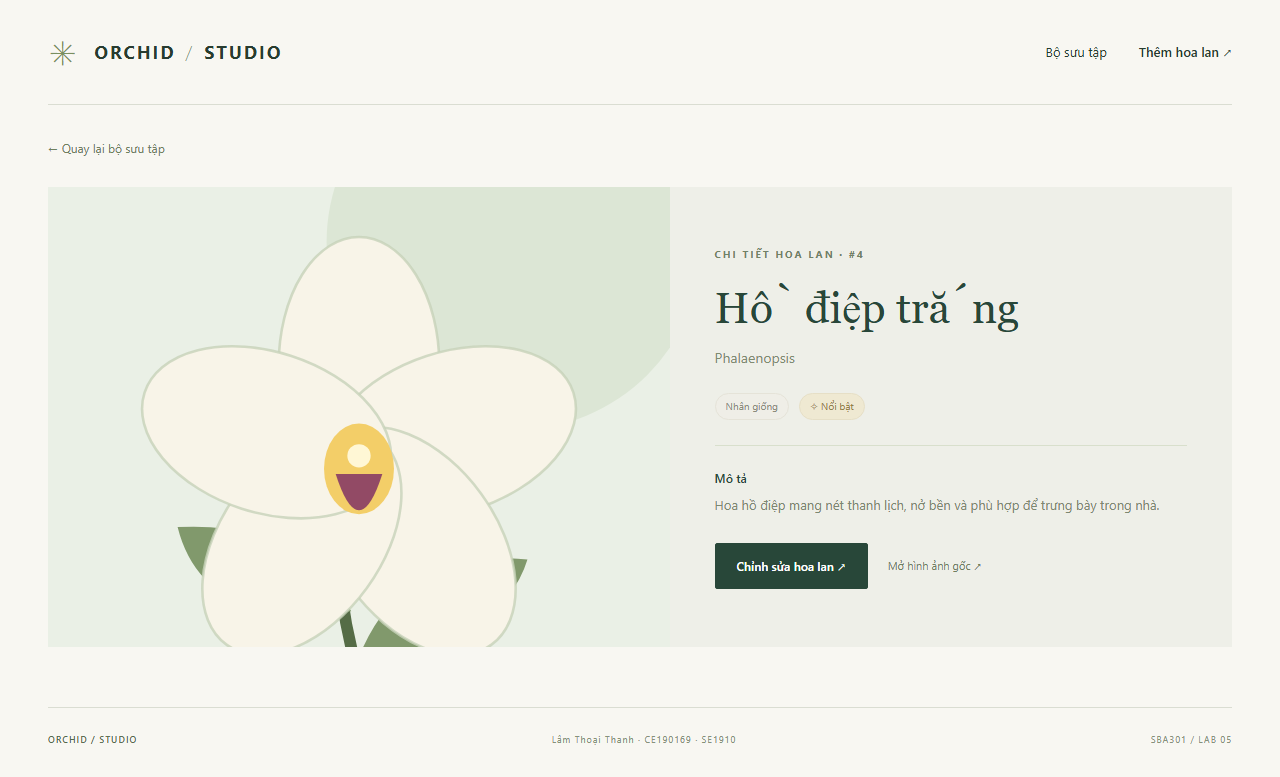
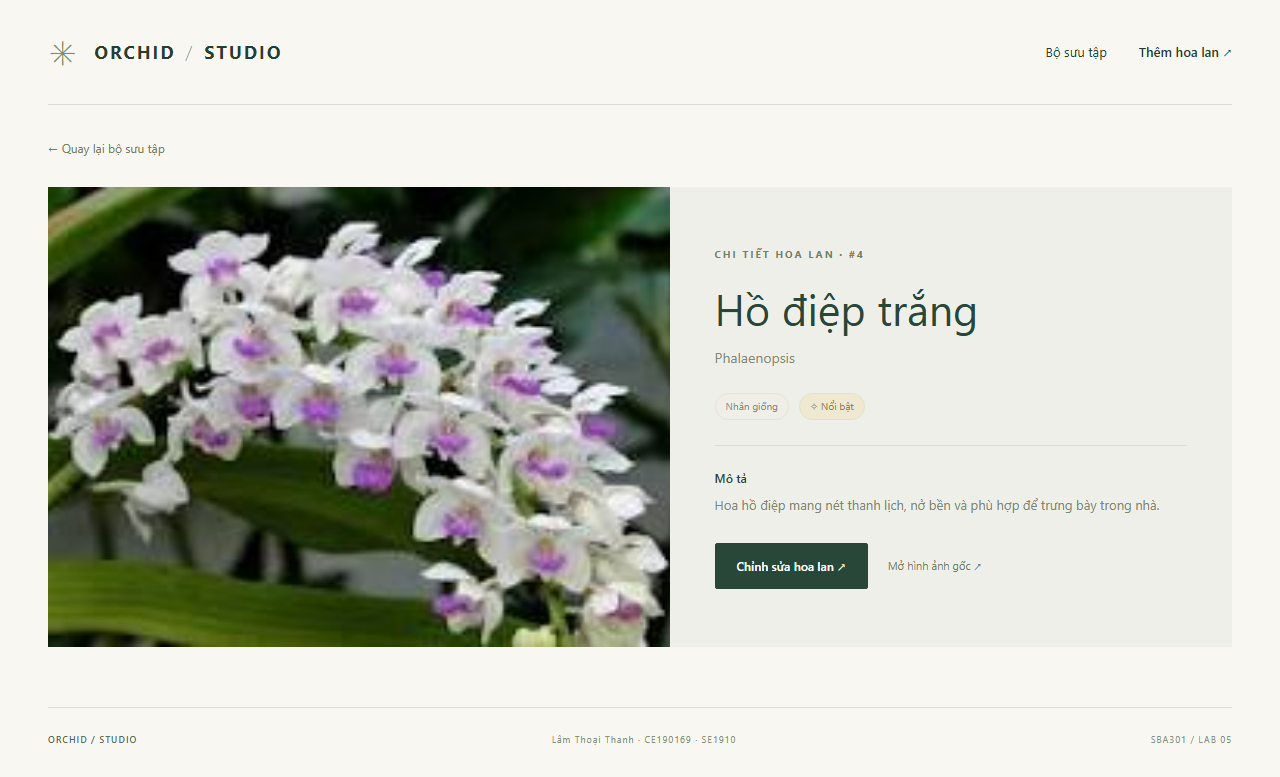
fix(lab05): correct Vietnamese fonts and orchid photos

Changed region(s): [[0.0312, 0.2162, 0.5312, 0.834], [0.5625, 0.3707, 0.8125, 0.4324]]

diff --git a/lab05/frontend/src/App.css b/lab05/frontend/src/App.css
@@ -65,10 +65,10 @@ h3 {
   color: #284739;
 }
 .collection-hero h1 {
-  font-family: Georgia, "Times New Roman", serif;
+  font-family: "Segoe UI", Arial, sans-serif;
   font-size: clamp(40px, 4.9vw, 65px);
   font-weight: 400;
-  letter-spacing: -2px;
+  letter-spacing: -1px;
   line-height: 1.18;
   margin-bottom: 22px;
 }
@@ -135,7 +135,7 @@ h3 {
 }
 .art-flower {
   color: #889f70;
-  font-family: Georgia, serif;
+  font-family: "Segoe UI", Arial, sans-serif;
   font-size: 220px;
   line-height: 1;
   z-index: 1;
@@ -174,7 +174,7 @@ h3 {
   margin-bottom: 8px;
 }
 .section-heading h2 {
-  font-family: Georgia, serif;
+  font-family: "Segoe UI", Arial, sans-serif;
   font-size: 27px;
   font-weight: 400;
   margin: 0;
@@ -275,7 +275,7 @@ h3 {
   object-fit: cover;
 }
 .orchid-name {
-  font-family: Georgia, serif;
+  font-family: "Segoe UI", Arial, sans-serif;
   font-size: 18px;
   display: block;
   margin-bottom: 6px;
@@ -351,7 +351,7 @@ h3 {
   color: #78856a;
 }
 .empty-state h3 {
-  font-family: Georgia, serif;
+  font-family: "Segoe UI", Arial, sans-serif;
   font-size: 23px;
   margin-bottom: 15px;
 }
@@ -414,7 +414,7 @@ h3 {
   margin-bottom: 10px;
 }
 .form-heading h1 {
-  font-family: Georgia, serif;
+  font-family: "Segoe UI", Arial, sans-serif;
   font-size: clamp(32px, 4vw, 44px);
   font-weight: 400;
 }
@@ -505,7 +505,7 @@ h3 {
   min-width: 0;
 }
 .detail-content h1 {
-  font-family: Georgia, serif;
+  font-family: "Segoe UI", Arial, sans-serif;
   font-size: 43px;
   font-weight: 400;
   overflow-wrap: anywhere;
@@ -552,7 +552,7 @@ h3 {
   background: #fafbf6;
 }
 .modal-title {
-  font-family: Georgia, serif;
+  font-family: "Segoe UI", Arial, sans-serif;
   font-size: 24px;
 }
 .modal-body {

diff --git a/lab05/frontend/tests/orchids.spec.ts b/lab05/frontend/tests/orchids.spec.ts
@@ -32,7 +32,7 @@ test("UI create, detail, edit, refresh and delete reach the real API", async ({
   await page.getByLabel("Phân loại", { exact: true }).fill("Phalaenopsis");
   await page
     .getByLabel("URL hình ảnh")
-    .fill("http://localhost:5173/images/phalaenopsis.svg");
+    .fill("http://localhost:5173/images/hoalan1.jpg");
   await page
     .getByLabel("Mô tả", { exact: true })
     .fill("Hoa lan tiếng Việt.\nMột câu chuyện mới.");

diff --git a/lab05/README.md b/lab05/README.md
@@ -124,7 +124,7 @@ Collection endpoint không có dấu `/` cuối, đúng cấu trúc được cun
   "orchidDescription": "Hoa lan Cattleya",
   "orchidCategory": "Cattleya",
   "attractive": true,
-  "orchidURL": "http://localhost:5173/images/cattleya.svg"
+  "orchidURL": "http://localhost:5173/images/hoalan2.jpg"
 }
 ```
 
